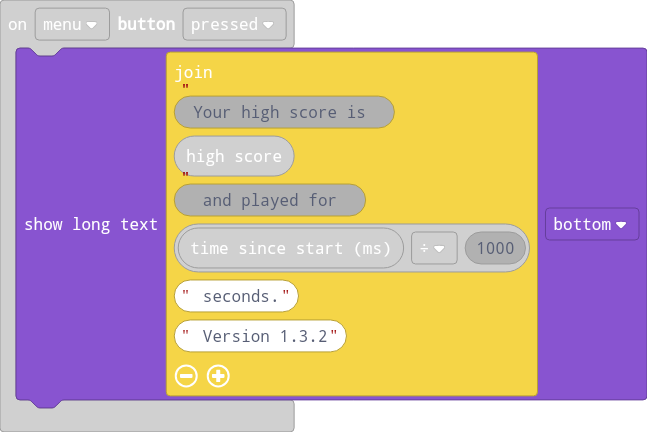
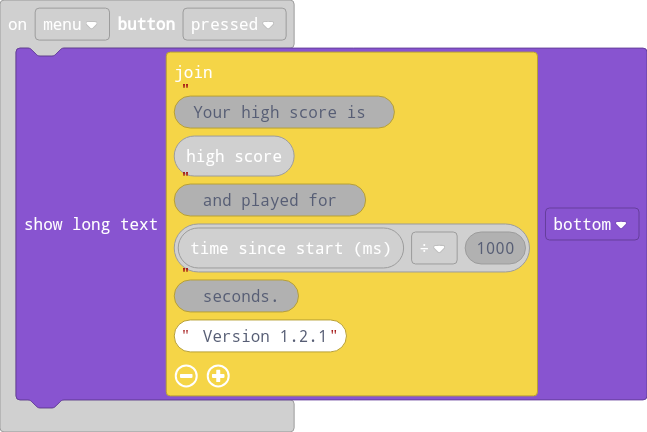
Super small improvements

Changed region(s): [[0.2473, 0.6319, 0.4637, 0.7222], [0.4946, 0.7523, 0.5255, 0.7824]]

diff --git a/main.ts b/main.ts
@@ -3,7 +3,7 @@ namespace SpriteKind {
     export const Bonus = SpriteKind.create()
 }
 controller.menu.onEvent(ControllerButtonEvent.Pressed, function () {
-    game.showLongText("Your high score is " + info.highScore() + " and played for " + game.runtime() / 1000 + " seconds." + " Version 1.3.2", DialogLayout.Bottom)
+    game.showLongText("Your high score is " + info.highScore() + " and played for " + game.runtime() / 1000 + " seconds." + " Version 1.2.1", DialogLayout.Bottom)
 })
 controller.anyButton.onEvent(ControllerButtonEvent.Pressed, function () {
     start = 1
@@ -13,58 +13,58 @@ let start = 0
 let mySprite3: Sprite = null
 let mySprite2: Sprite = null
 let mySprite = sprites.create(img`
-. . . . . . . 6 . . . . . . . . 
-. . . . . . 8 6 6 . . . 6 8 . . 
-. . . e e e 8 8 6 6 . 6 7 8 . . 
-. . e 2 2 2 2 e 8 6 6 7 6 . . . 
-. e 2 2 4 4 2 7 7 7 7 7 8 6 . . 
-. e 2 4 4 2 6 7 7 7 6 7 6 8 8 . 
-e 2 4 5 2 2 6 7 7 6 2 7 7 6 . . 
-e 2 4 4 2 2 6 7 6 2 2 6 7 7 6 . 
-e 2 4 2 2 2 6 6 2 2 2 e 7 7 6 . 
-e 2 4 2 2 4 2 2 2 4 2 2 e 7 6 . 
-e 2 4 2 2 2 2 2 2 2 2 2 e c 6 . 
-e 2 2 2 2 2 2 2 4 e 2 e e c . . 
-e e 2 e 2 2 4 2 2 e e e c . . . 
-e e e e 2 e 2 2 e e e c . . . . 
-e e e 2 e e c e c c c . . . . . 
-. c c c c c c c . . . . . . . . 
+    . . . . . . . 6 . . . . . . . .
+    . . . . . . 8 6 6 . . . 6 8 . .
+    . . . e e e 8 8 6 6 . 6 7 8 . .
+    . . e 2 2 2 2 e 8 6 6 7 6 . . .
+    . e 2 2 4 4 2 7 7 7 7 7 8 6 . .
+    . e 2 4 4 2 6 7 7 7 6 7 6 8 8 .
+    e 2 4 5 2 2 6 7 7 6 2 7 7 6 . .
+    e 2 4 4 2 2 6 7 6 2 2 6 7 7 6 .
+    e 2 4 2 2 2 6 6 2 2 2 e 7 7 6 .
+    e 2 4 2 2 4 2 2 2 4 2 2 e 7 6 .
+    e 2 4 2 2 2 2 2 2 2 2 2 e c 6 .
+    e 2 2 2 2 2 2 2 4 e 2 e e c . .
+    e e 2 e 2 2 4 2 2 e e e c . . .
+    e e e e 2 e 2 2 e e e c . . . .
+    e e e 2 e e c e c c c . . . . .
+    . c c c c c c c . . . . . . . .
 `, SpriteKind.Food)
 mySprite2 = sprites.create(img`
-. . . . . . . . . . . . . . . . 
-. . . . . . 6 6 6 6 6 6 6 6 . . 
-. . . . . 6 c 6 6 6 6 6 6 9 6 . 
-. . . . 6 c c 6 6 6 6 6 6 9 c 6 
-. . d 6 9 c c 6 9 9 9 9 9 9 c c 
-. d 6 6 9 c b 8 8 8 8 8 8 8 6 c 
-. 6 6 6 9 b 8 8 b b b 8 b b 8 6 
-. 6 6 6 6 6 8 b b b b 8 b b b 8 
-. 6 6 6 6 8 6 6 6 6 6 8 6 6 6 8 
-. 6 d d 6 8 f 8 8 8 f 8 8 8 8 8 
-. d d 6 8 8 8 f 8 8 f 8 8 8 8 8 
-. 8 8 8 8 8 8 8 f f f 8 8 8 8 8 
-. 8 8 8 8 f f f 8 8 8 8 f f f f 
-. . . 8 f f f f f 8 8 f f f f f 
-. . . . f f f f . . . . f f f . 
-. . . . . . . . . . . . . . . . 
+    . . . . . . . . . . . . . . . .
+    . . . . . . 6 6 6 6 6 6 6 6 . .
+    . . . . . 6 c 6 6 6 6 6 6 9 6 .
+    . . . . 6 c c 6 6 6 6 6 6 9 c 6
+    . . d 6 9 c c 6 9 9 9 9 9 9 c c
+    . d 6 6 9 c b 8 8 8 8 8 8 8 6 c
+    . 6 6 6 9 b 8 8 b b b 8 b b 8 6
+    . 6 6 6 6 6 8 b b b b 8 b b b 8
+    . 6 6 6 6 8 6 6 6 6 6 8 6 6 6 8
+    . 6 d d 6 8 f 8 8 8 f 8 8 8 8 8
+    . d d 6 8 8 8 f 8 8 f 8 8 8 8 8
+    . 8 8 8 8 8 8 8 f f f 8 8 8 8 8
+    . 8 8 8 8 f f f 8 8 8 8 f f f f
+    . . . 8 f f f f f 8 8 f f f f f
+    . . . . f f f f . . . . f f f .
+    . . . . . . . . . . . . . . . .
 `, SpriteKind.Player)
 mySprite3 = sprites.create(img`
-. . . . . . . . . . . . . . . . 
-. . . . . . 2 2 2 2 2 2 2 2 . . 
-. . . . . 2 c 2 2 2 2 2 2 4 2 . 
-. . . . 2 c c 2 2 2 2 2 2 4 c 2 
-. . d 2 4 c c 2 4 4 4 4 4 4 c c 
-. d 2 2 4 c b e e e e e e e 2 c 
-. 2 2 2 4 b e e b b b e b b e 2 
-. 2 2 2 2 2 e b b b b e b b b e 
-. 2 2 2 2 e 2 2 2 2 2 e 2 2 2 e 
-. 2 d d 2 e f e e e f e e e e e 
-. d d 2 e e e f e e f e e e e e 
-. e e e e e e e f f f e e e e e 
-. e e e e f f f e e e e f f f f 
-. . . e f f f f f e e f f f f f 
-. . . . f f f f . . . . f f f . 
-. . . . . . . . . . . . . . . . 
+    . . . . . . . . . . . . . . . .
+    . . . . . . 2 2 2 2 2 2 2 2 . .
+    . . . . . 2 c 2 2 2 2 2 2 4 2 .
+    . . . . 2 c c 2 2 2 2 2 2 4 c 2
+    . . d 2 4 c c 2 4 4 4 4 4 4 c c
+    . d 2 2 4 c b e e e e e e e 2 c
+    . 2 2 2 4 b e e b b b e b b e 2
+    . 2 2 2 2 2 e b b b b e b b b e
+    . 2 2 2 2 e 2 2 2 2 2 e 2 2 2 e
+    . 2 d d 2 e f e e e f e e e e e
+    . d d 2 e e e f e e f e e e e e
+    . e e e e e e e f f f e e e e e
+    . e e e e f f f e e e e f f f f
+    . . . e f f f f f e e f f f f f
+    . . . . f f f f . . . . f f f .
+    . . . . . . . . . . . . . . . .
 `, SpriteKind.Enemy)
 mySprite2.setPosition(20, 56)
 mySprite3.setPosition(142, 93)
